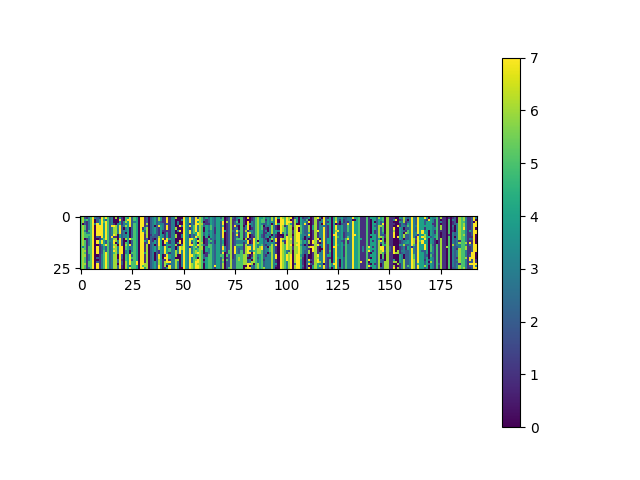
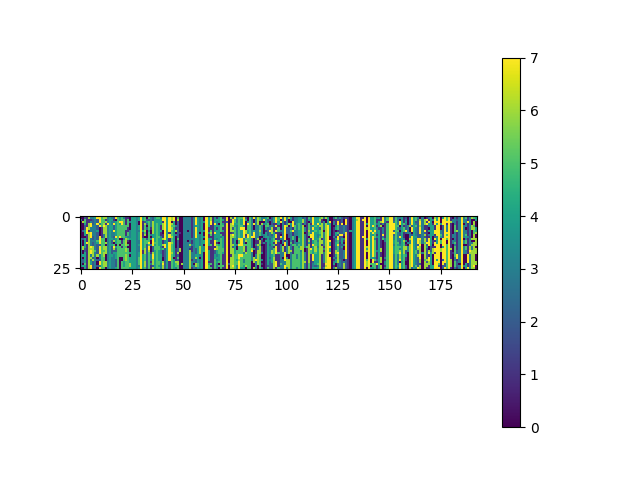
Lots of figures

Changed region(s): [[0.125, 0.4375, 0.75, 0.5625]]

diff --git a/code/kmeans/k-means.py b/code/kmeans/k-means.py
@@ -8,7 +8,7 @@ from matlab_functions import getMatlabValues
 from fourier import fftEpochsSpecFreq
 from normalize import normalizedRows
 from grouping import groupColumns
-from scrambleRows import scrambleRows
+from scrambling import scrambleRows, trashData, pickAndMix
 
 # Returns a k-Means model fitted to the input values.
 # The values should be a 2D numpy array, where the rows are considered inputs to k-Means.
@@ -23,7 +23,7 @@ def fitted_kmeans(values, Nclusters, dropout = 0):
 #
 # Produces:
 #   A k-Means model
-#   training data for said model
+#   testing data for said model
 #   predictions on training data for said model and training data
 # 
 # Currently exclusively adapted to our specific method of:
@@ -38,7 +38,8 @@ def fitted_kmeans(values, Nclusters, dropout = 0):
 #       Epoch grouping 
 #
 def makePredictions(
-    fileName,                       # A .mat file
+    allValues,                      # Dictionary channel : values
+                                    # Ex:   "str_lfp1" : np.array((0.1, 0.2, ....))
     channelPatterns,                # Example: [str_lfp, gp_lfp]; only channels that match a pattern
     loFreq, hiFreq,                 # Frequencies to extract
     epochWidth = 2 ** 13,           # Width of epochs
@@ -57,9 +58,7 @@ def makePredictions(
     scramble = (False, 0)       # One method of "destroying" the input data. Should kill any and all results.
                                 # Boolean for yes/no, integer for intensity.
 ):
-    # Dictionary channel : values
-    # Ex:   "str_lfp1" : np.array((0.1, 0.2, ....))
-    allValues = getMatlabValues(fileName)
+
     values = {}
     # Clean out non- str_lfp, gp_lfp
     for pattern in channelPatterns:
@@ -115,35 +114,84 @@ def makePredictions(
     if normalize:
         trainingData = normalizedRows(trainingData)
 
+    testingData = trainingData.copy()
+
     # Scrambling of data
-    if scramble[0]:
+    if scramble[0] == "trash":
+        trainingData = trashData(trainingData)
+    elif scramble[0] == "pickAndMix":
+        trainingData == pickAndMix(trainingData)
+    elif scramble[0]:
         trainingData = scrambleRows(trainingData, scramble[1])
     
     model = fitted_kmeans(trainingData, nClusters, dropout)
-    predictions = model.predict(trainingData).reshape((nChannels, nEpochs))
+    predictions = model.predict(testingData).reshape((nChannels, nEpochs))
 
-    return model, trainingData, predictions
+    return model, testingData, predictions
 
-def savePredictions(predictions, outFile):
+def saveMatrix(predictions, outFile):
     plt.imshow(predictions)
     plt.colorbar()
     plt.savefig(outFile)
     plt.clf()
 
 def main():
-    for i in [1, 2, 3, 4, 5]:
-        model, trainingdata, predictions = makePredictions(
-            "../_data/matlabData/NPR-075.b11.mat",
-            ["str_lfp", "gp_lfp"],
-            12, 32,
-            epochWidth=2**13,
-            dropout = 0.5,
-            normalize=True,
-            epochGroupsSize=i,
-            scramble=(True, 3)
-        )
-        print(trainingdata.shape)
-        
-        savePredictions(predictions, "k-meansFigures/scrambled/groupSize" + str(i) + ".png")
 
+    allValues = getMatlabValues("../_data/matlabData/NPR-075.b11.mat")
+
+    configurations = [
+        ("normal", (False, None)),
+        ("pickAndMix", ("pickAndMix", None)),
+        ("randomScrambled", (True, "random")),
+        ("scrambled", (True, 17))
+    ]
+
+    # Directory for output of a certain data scrambling configuration
+    for (outDir, scrambleConf) in configurations:
+        # Several epoch-groupsizes for each configuration
+        for i in [1, 2, 3, 4, 5]:
+            model, testingData, predictions = makePredictions(
+                allValues,
+                ["str_lfp", "gp_lfp"],
+                12, 32,
+                epochWidth=2**13,
+                dropout = 0.5,
+                normalize=False,
+                epochGroupsSize=i,
+                scramble=scrambleConf,
+                nClusters=8
+            )
+            out = "k-meansFiguresNotNormalized/" + outDir + "/"
+            saveMatrix(predictions, out + "groupSize" + str(i) + ".png")
+
+            predictionsAs1D = predictions.reshape((
+                predictions.shape[0] *
+                predictions.shape[1]
+            ))
+
+            centers = model.cluster_centers_
+            nC = len(centers)
+
+            # # Calculate average distance of (x - center_c) for each x predicted to each cluster c
+            # # Not sure this is working
+            # allDistances = {
+            #     idx: [] for idx in range(0, nC)
+            # }
+            # for (sample, c) in zip(testingData, predictionsAs1D):
+            #     allDistances[c].append(
+            #         np.linalg.norm(sample - centers[c])
+            #     )
+            # for idx in range(0, nC):
+            #     allDistances[idx] = np.array(allDistances[idx])
+
+            # Distances between cluster centers, divided by mean center-to-prediction distance for that cluster
+            distMatr = np.zeros((nC, nC))
+            for p in range(0, nC):
+                for q in range(0, nC):
+                    distMatr[p, q] = np.linalg.norm(centers[p] - centers[q])
+            saveMatrix(distMatr, out + "centerGroupSize" + str(i) + ".png")
+            saveMatrix(centers, out + "allCentersGroupSize" + str(i) + ".png")
+
+            print("Finished " + outDir + " " + str(i))
+            
 main()

diff --git a/code/kmeans/scrambling.py b/code/kmeans/scrambling.py
@@ -1,0 +1,64 @@
+import numpy as np
+from random import randint
+
+# Shifts the data in values.
+# values should be a 2D numpy array.
+# The output contains all the same data as values, but reordered.
+# Each value in values is moved "up" in the matrix by an amount equal to the index of its column.
+# A value that goes "above" the matrix loops around to the "bottom".
+# See the example in "test".
+#
+#   This should ruin the epoch-results of our k-Means algorithm.
+#   If this doesn't ruin any synchronization, we have a problem.
+#
+def scrambleRows(values, intensity = 1):
+    out = np.zeros(values.shape)
+    cols = values.shape[1]
+    rows = values.shape[0]
+    shift = 0
+    for col in range(0, cols):
+        part1 = values[0:shift      : , col]
+        part2 = values[shift:rows   : , col]
+        out[:,col] = np.concatenate((part2, part1))
+        if intensity == "random":
+            shift = randint(0, rows - 1)
+        else:
+            shift = (shift + intensity) % rows
+    return out
+
+# Generates trash data. Woop.
+def trashData(values):
+    out = np.zeros(values.shape)
+    for i in range(0, values.shape[0]):
+        for j in range(0, values.shape[1]):
+            out[i, j] = randint(0, 100)
+    return out
+
+def pickAndMix(values):
+    cols = values.shape[1]
+    rows = values.shape[0]
+    switches = rows * 5
+    out = values.copy()
+    for col in range(0, cols):
+        for iter in range(0, switches):
+            idx1 = randint(0, rows - 1)
+            idx2 = randint(0, rows - 1)
+            tmp = out[idx1, col]
+            out[idx1, col] = out[idx2, col]
+            out[idx2, col] = tmp
+    return out
+
+
+def test():
+    b = np.array((
+        10, 11, 12, 13, 14, 15, 16, 17,
+        20, 21, 22, 23, 24, 25, 26, 27,
+        30, 31, 32, 33, 34, 35, 36, 37,
+        40, 41, 42, 43, 44, 45, 46, 47,
+        50, 51, 52, 53, 54, 55, 56, 57
+    )).reshape((5, 8))
+    print(b)
+    print(scrambleRows(b, 1))
+    print(scrambleRows(b, 3))
+    print(pickAndMix(b))
+
